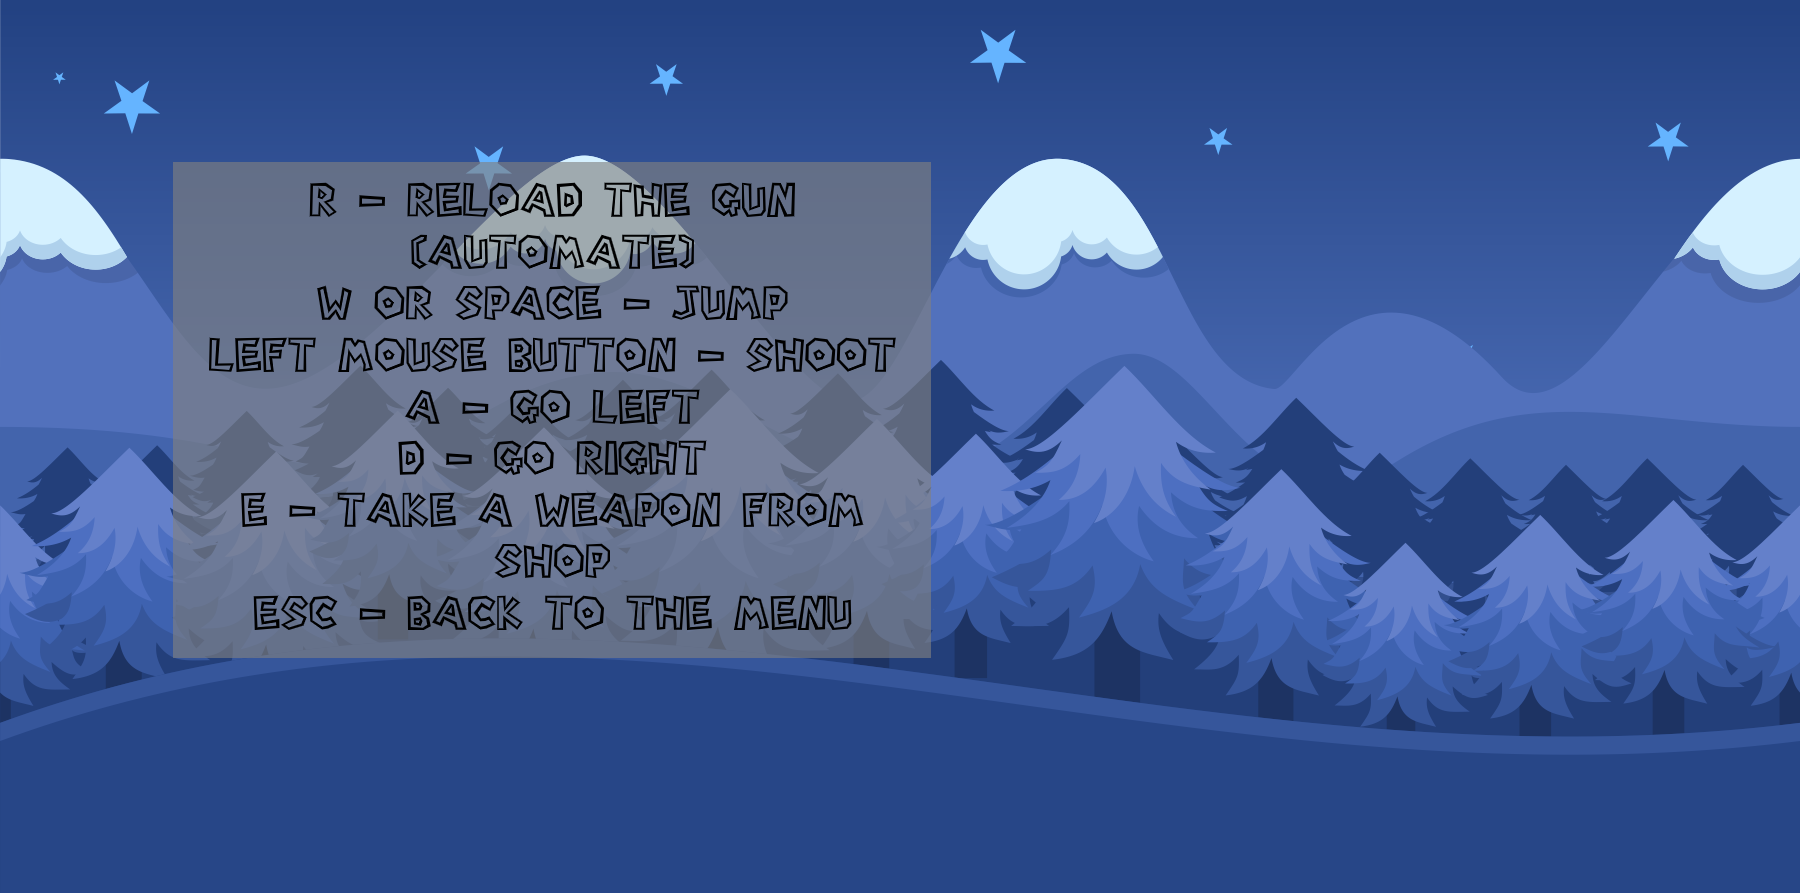
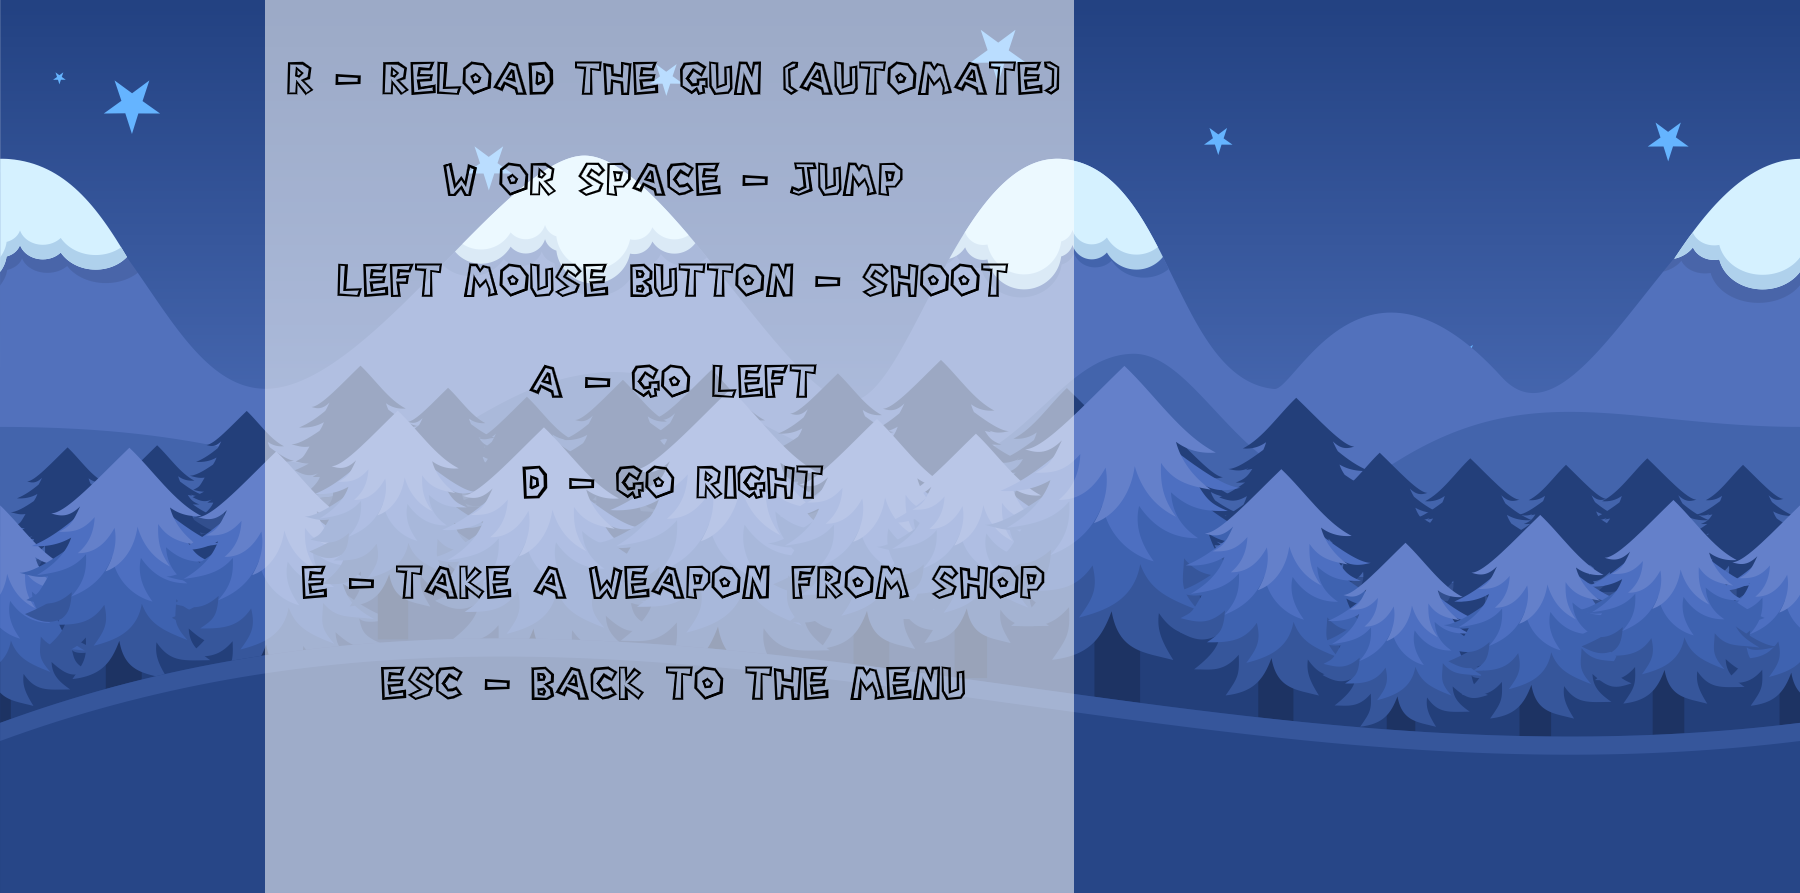
changed the menu and rules

diff --git a/mainplat_test4.py b/mainplat_test4.py
@@ -1261,9 +1261,9 @@ game_map = []
 gravity = 1
 state = state_start
 waiting_command = 0
-punkts =[(350, 250, "Start", (255, 255, 255), (0, 0, 0), 0),
-(360, 350, "Rules", (255, 255, 255), (0, 0, 0), 1),
-(380, 450, "Quit", (255, 255, 255), (250, 10, 50), 2)]
+punkts =[(590, 250, "Start", (255, 255, 255), (0, 0, 0), 0),
+(600, 350, "Rules", (255, 255, 255), (0, 0, 0), 1),
+(620, 450, "Quit", (255, 255, 255), (250, 10, 50), 2)]
 game = Menu(punkts)
 
 
